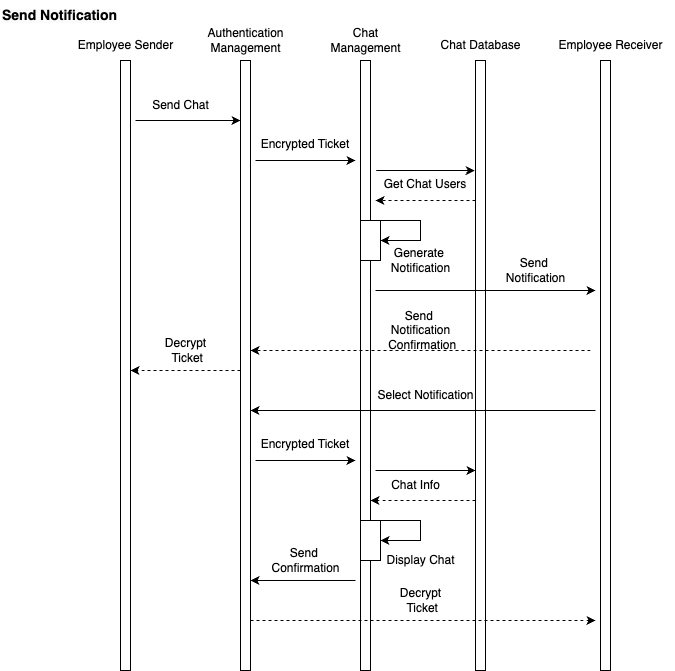
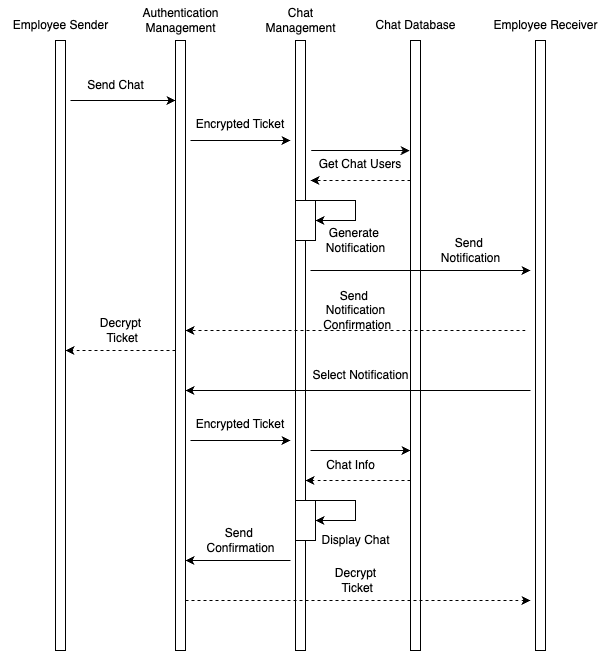
removed be8-11 seq headers

Changed region(s): [[0.0, 0.0, 0.9967, 1.0], [0.0934, 0.5223, 0.1246, 0.553]]

diff --git a/D3/main.tex b/D3/main.tex
@@ -163,31 +163,31 @@ This section should provide an brief overview of the entire document.
 \begin{figure}[H]
 	\centering
 	\includegraphics[width=0.8\textwidth]{BE7.png}
-	\caption{Add Individuals to Chat Sequence Diagram}
+	\caption{BE7 - Add Individuals to Chat Sequence Diagram}
 \end{figure}
 
 \begin{figure}[H]
 	\centering
 	\includegraphics[width=0.8\textwidth]{BE8.png}
-	\caption{Remove Individuals to Chat Sequence Diagram}
+	\caption{BE8 - Remove Individuals to Chat Sequence Diagram}
 \end{figure}
 
 \begin{figure}[H]
 	\centering
 	\includegraphics[width=0.8\textwidth]{BE9.png}
-	\caption{Delete Message Sequence Diagram}
+	\caption{BE9 - Delete Message Sequence Diagram}
 \end{figure}
 
 \begin{figure}[H]
 	\centering
 	\includegraphics[width=0.8\textwidth]{BE10.png}
-	\caption{Logout Sequence Diagram}
+	\caption{BE10 - Logout Sequence Diagram}
 \end{figure}
 
 \begin{figure}[H]
 	\centering
 	\includegraphics[width=0.8\textwidth]{BE11.png}
-	\caption{Send Notification Sequence Diagram}
+	\caption{BE11 - Send Notification Sequence Diagram}
 \end{figure}
 
 
